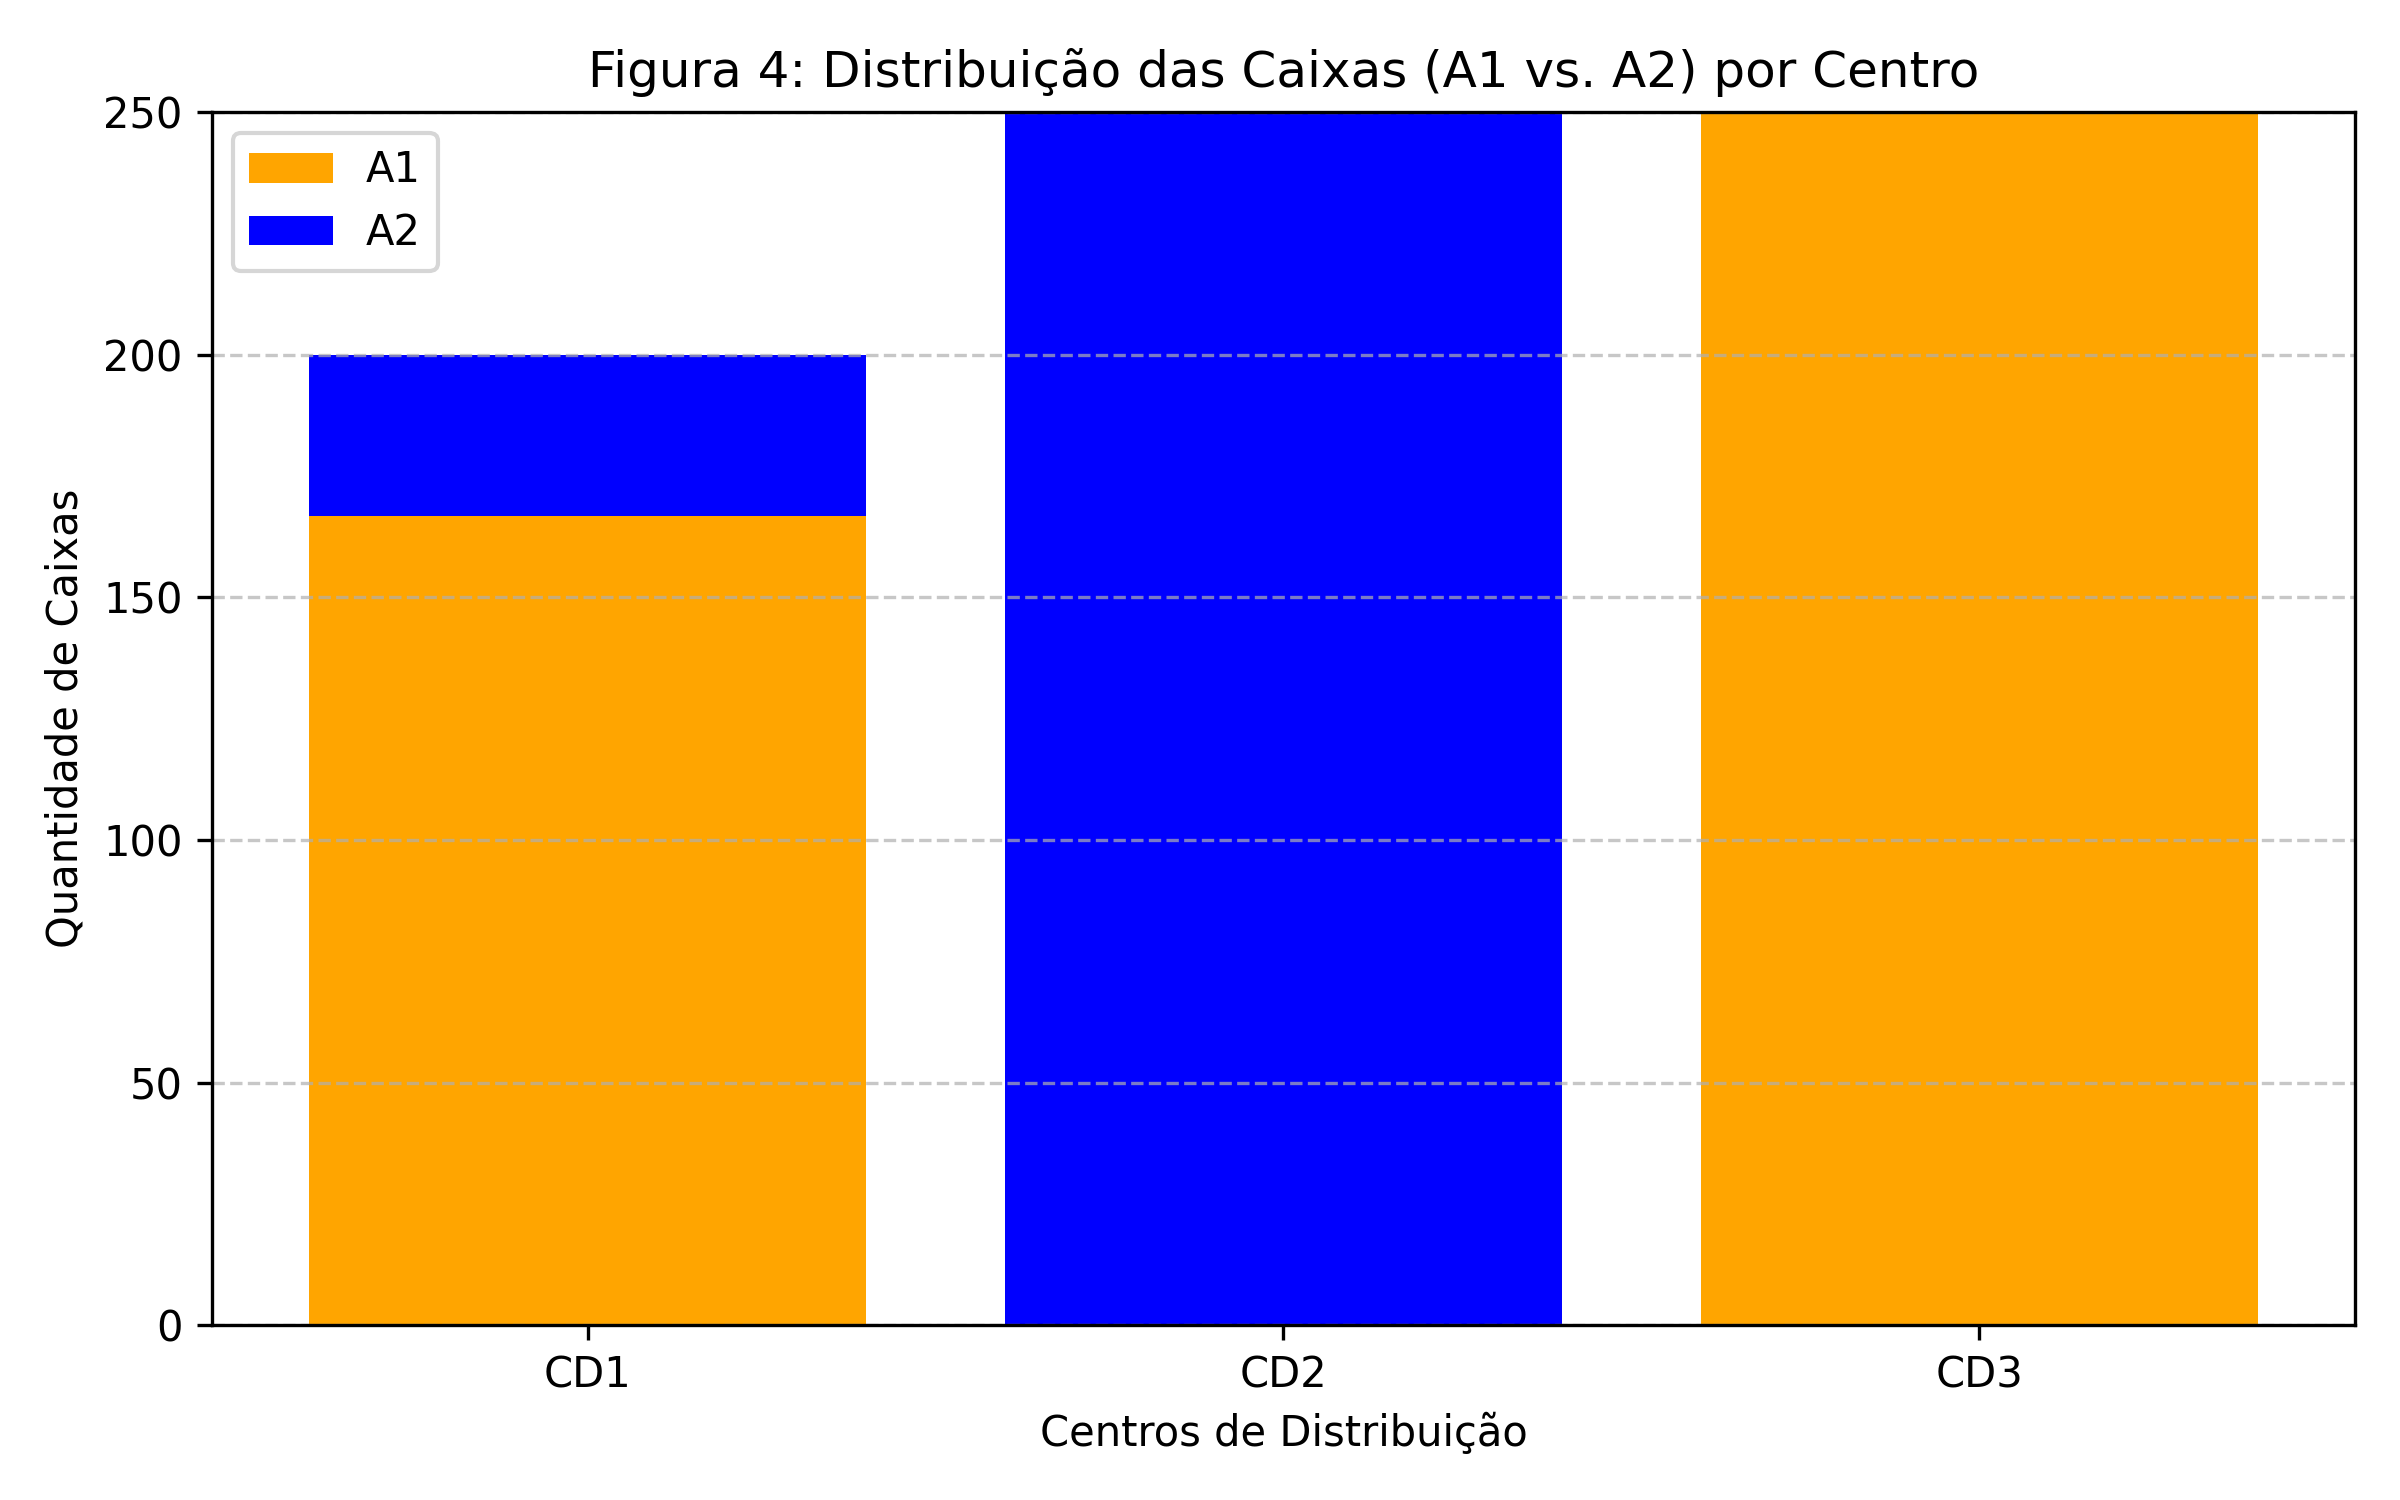
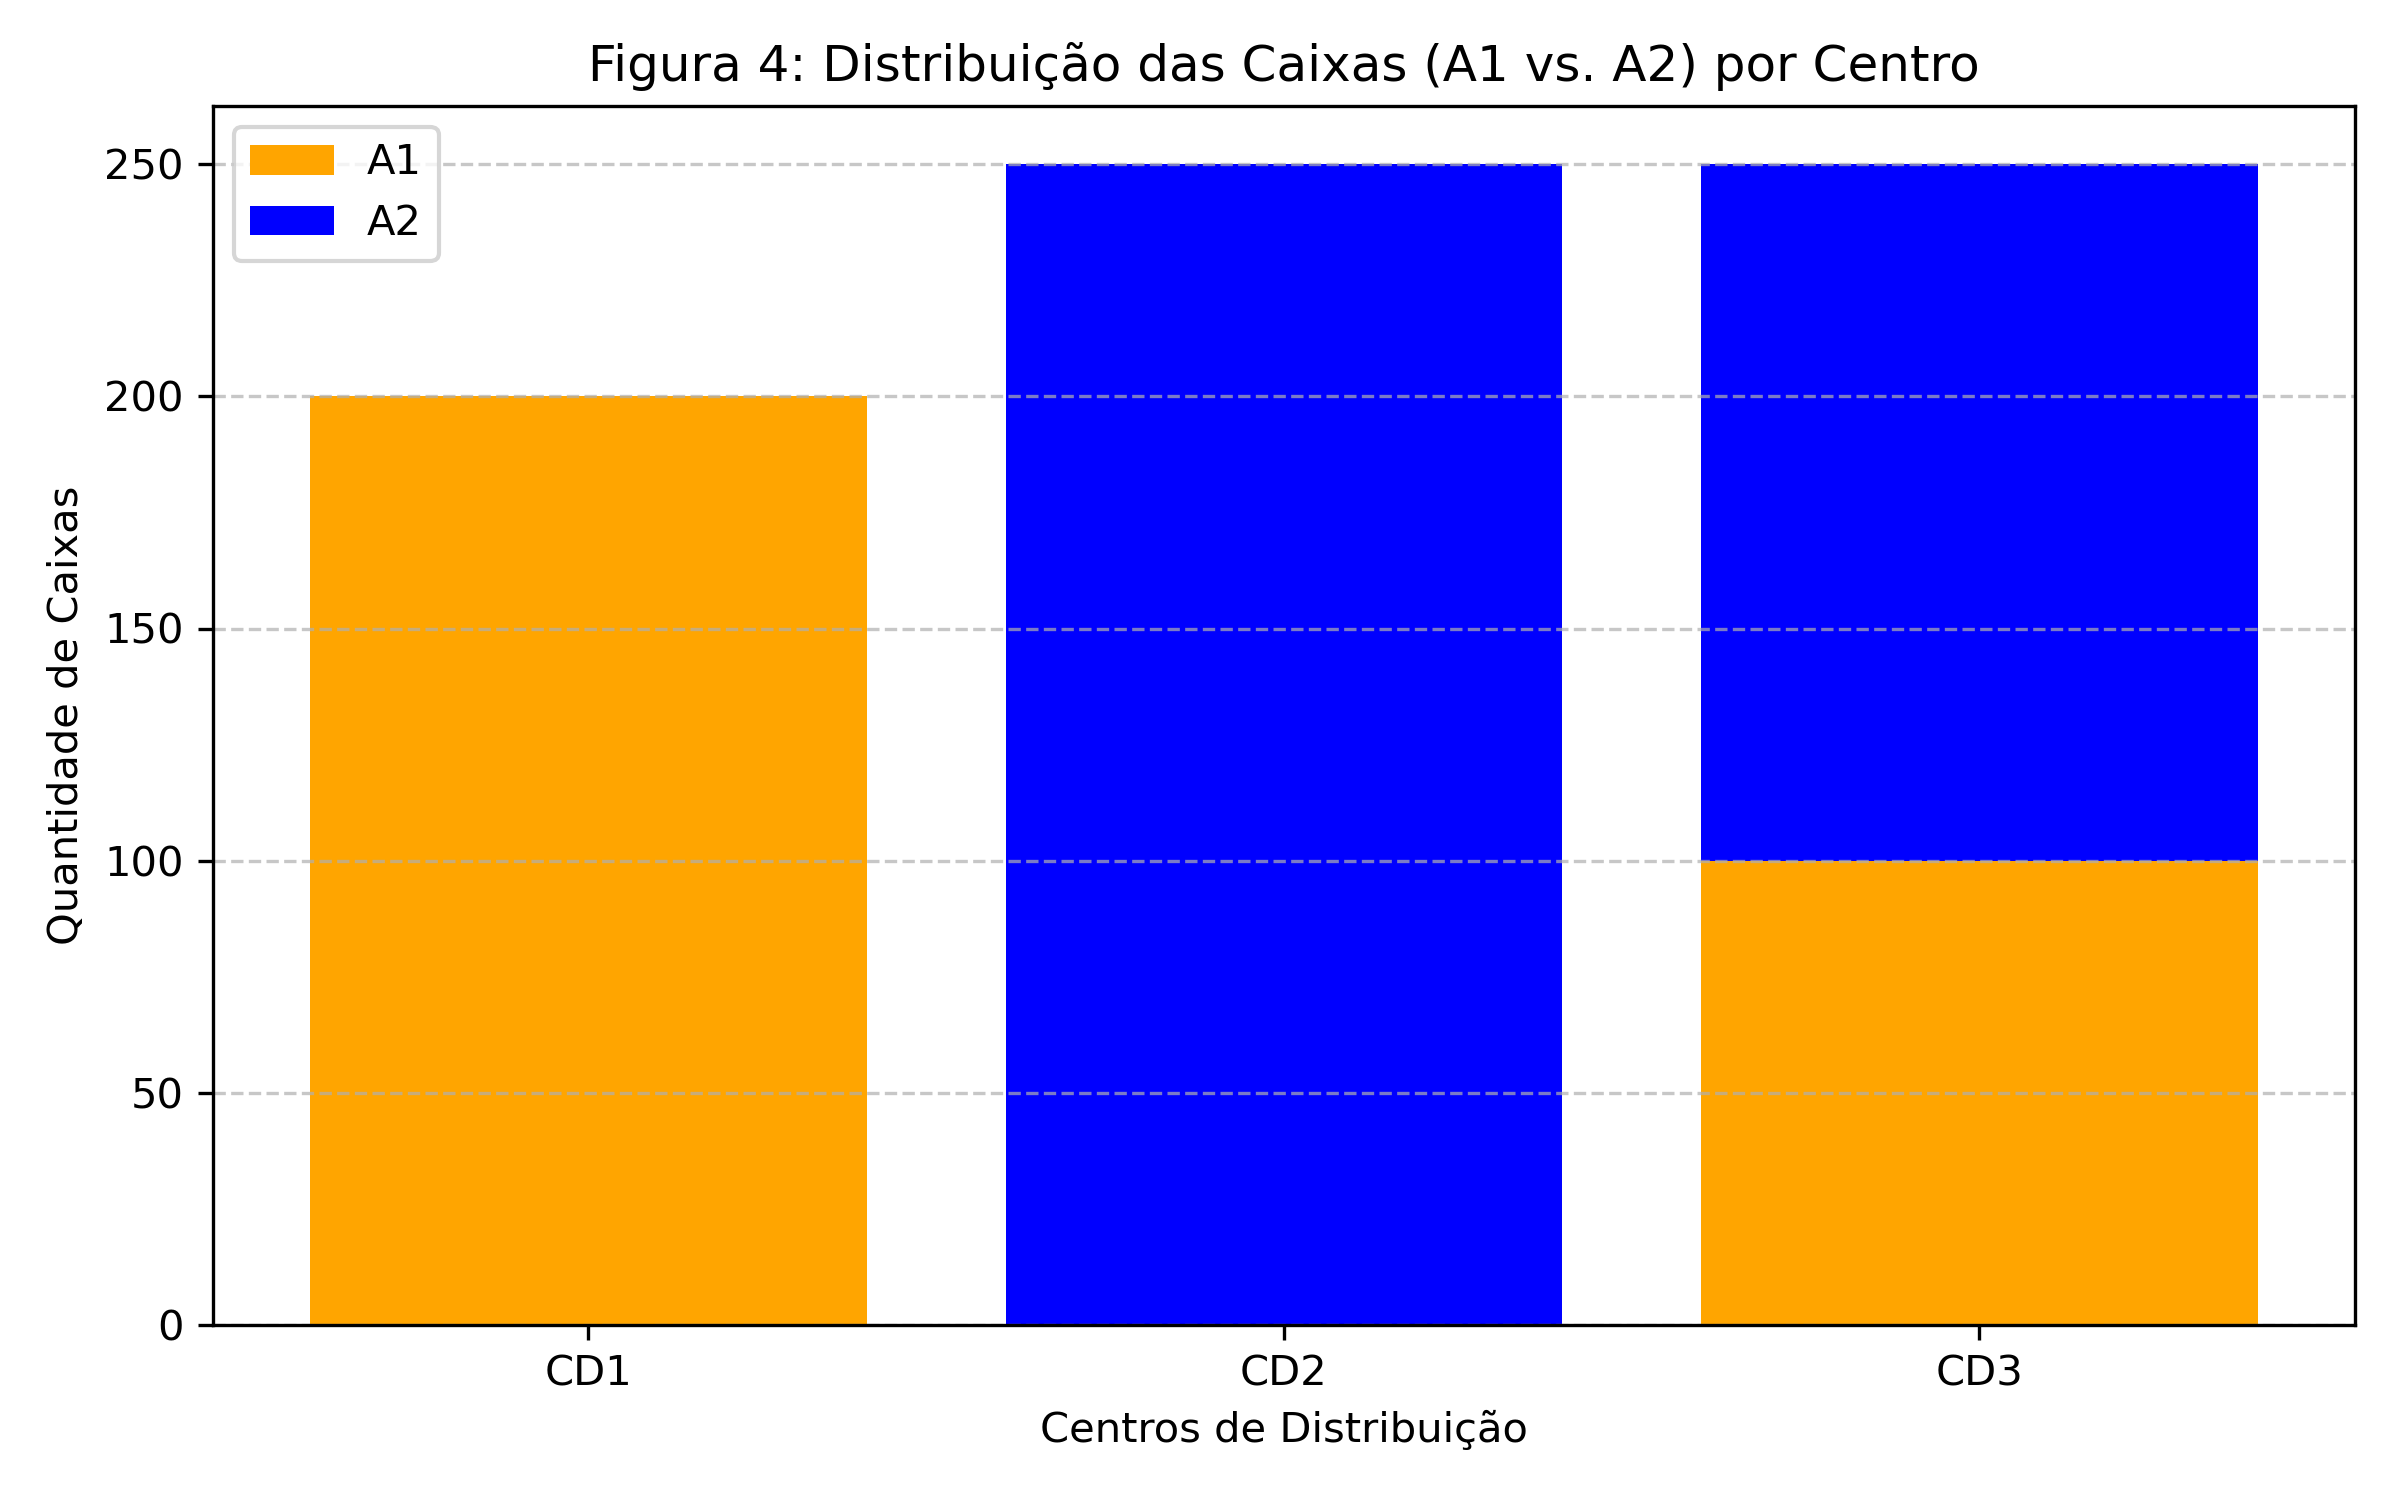
Melhorias para transporte usar A2

diff --git a/metas.py b/metas.py
@@ -16,13 +16,13 @@ procura = {"CD1": 200, "CD2": 250, "CD3": 250}
 
 # Custos: A1 é barato, A2 é bem mais caro, para criar conflito real
 custo = {
-    ("A1","CD1"): 2.0,  ("A1","CD2"): 3.0,  ("A1","CD3"): 2.5,
-    ("A2","CD1"): 5.0,  ("A2","CD2"): 5.5, ("A2","CD3"): 6.0
+    ("A1","CD1"): 3.0,  ("A1","CD2"): 4.0,  ("A1","CD3"): 3.5,
+    ("A2","CD1"): 5.5,  ("A2","CD2"): 3.5, ("A2","CD3"): 4.5
 }
 
 # Metas:
 #   1) Custo total ≤ 2500
-#   2) Expedir de A2 ≈ 400 (penalizando desvios para mais e para menos)
+#   2) Expedir de A2 ≈ 300 (penalizando desvios para mais e para menos)
 model = LpProblem("ProgMetas", LpMinimize)
 
 # Variáveis de transporte
@@ -41,8 +41,8 @@ cost_expr = lpSum(custo[(i,j)] * x[(i,j)] for i in armazens for j in centros)
 # Meta 1: cost_expr + d1_minus - d1_plus = 2500
 model += cost_expr + d1_minus - d1_plus == 2500, "MetaCusto"
 
-# Meta 2: sum(A2->CDs) + d2_minus - d2_plus = 400
-model += lpSum(x[("A2",j)] for j in centros) + d2_minus - d2_plus == 400, "MetaA2"
+# Meta 2: sum(A2->CDs) + d2_minus - d2_plus = 300
+model += lpSum(x[("A2",j)] for j in centros) + d2_minus - d2_plus == 300, "MetaA2"
 
 # Restrições de oferta e procura
 model += lpSum(x[("A1",j)] for j in centros) <= oferta["A1"], "CapA1"
@@ -53,7 +53,7 @@ for c in centros:
 # Função objetivo: penalizar exceder ou ficar aquém da meta de A2
 # e também penalizar ultrapassar a meta de custo
 w1, w2 = 1, 1
-model += w1*d1_plus + w2*(d2_minus + d2_plus), "ObjMetas"
+model += w1*d1_plus + w2*d2_minus, "ObjMetas"
 
 model.solve()
 
@@ -63,6 +63,7 @@ custo_total = value(cost_expr)
 expA2 = value(lpSum(x[("A2",j)] for j in centros))
 print(f"Custo Total: {custo_total:.2f} €")
 print(f"Expedição de A2: {expA2:.0f} caixas")
+print(f"Pesos: w1 = {w1}, w2 = {w2}")
 
 # Extrair quantidades para cada centro
 distA1 = [value(x[("A1",cd)]) for cd in centros]
@@ -103,7 +104,7 @@ for w2test in w2_values:
     # Meta 1
     m2 += cost_expr2 + d1m - d1p == 2500
     # Meta 2
-    m2 += lpSum(x2[("A2",cd)] for cd in centros) + d2m - d2p == 400
+    m2 += lpSum(x2[("A2",cd)] for cd in centros) + d2m - d2p == 300
 
     m2 += lpSum(x2[("A1",cd)] for cd in centros) <= oferta["A1"]
     m2 += lpSum(x2[("A2",cd)] for cd in centros) <= oferta["A2"]
@@ -111,7 +112,7 @@ for w2test in w2_values:
         m2 += lpSum(x2[(i,c)] for i in armazens) == procura[c]
 
     # função objetivo penaliza d1p e (d2m + d2p)
-    m2 += 1 * d1p + w2test * (d2m + d2p)
+    m2 += 1 * d1p + w2test * d2m
     m2.solve()
 
     expA2_sens = value(lpSum(x2[("A2",cd)] for cd in centros))

diff --git a/transporte.py b/transporte.py
@@ -8,11 +8,11 @@ from pulp import LpProblem, LpMinimize, LpVariable, lpSum, value, LpStatus
 # -------------------------
 armazens = ["A1", "A2"]
 centros = ["CD1", "CD2", "CD3"]
-oferta = {"A1": 300, "A2": 500}
+oferta = {"A1": 700, "A2": 700}
 procura = {"CD1": 200, "CD2": 250, "CD3": 250}
 custo_inicial = {
-    ("A1","CD1"): 2.0, ("A1","CD2"): 3.5, ("A1","CD3"): 3.0,
-    ("A2","CD1"): 2.5, ("A2","CD2"): 2.0, ("A2","CD3"): 4.0
+    ("A1","CD1"): 3.0,  ("A1","CD2"): 4.0,  ("A1","CD3"): 3.5,
+    ("A2","CD1"): 5.5,  ("A2","CD2"): 3.5, ("A2","CD3"): 4.5
 }
 
 # Criar modelo
